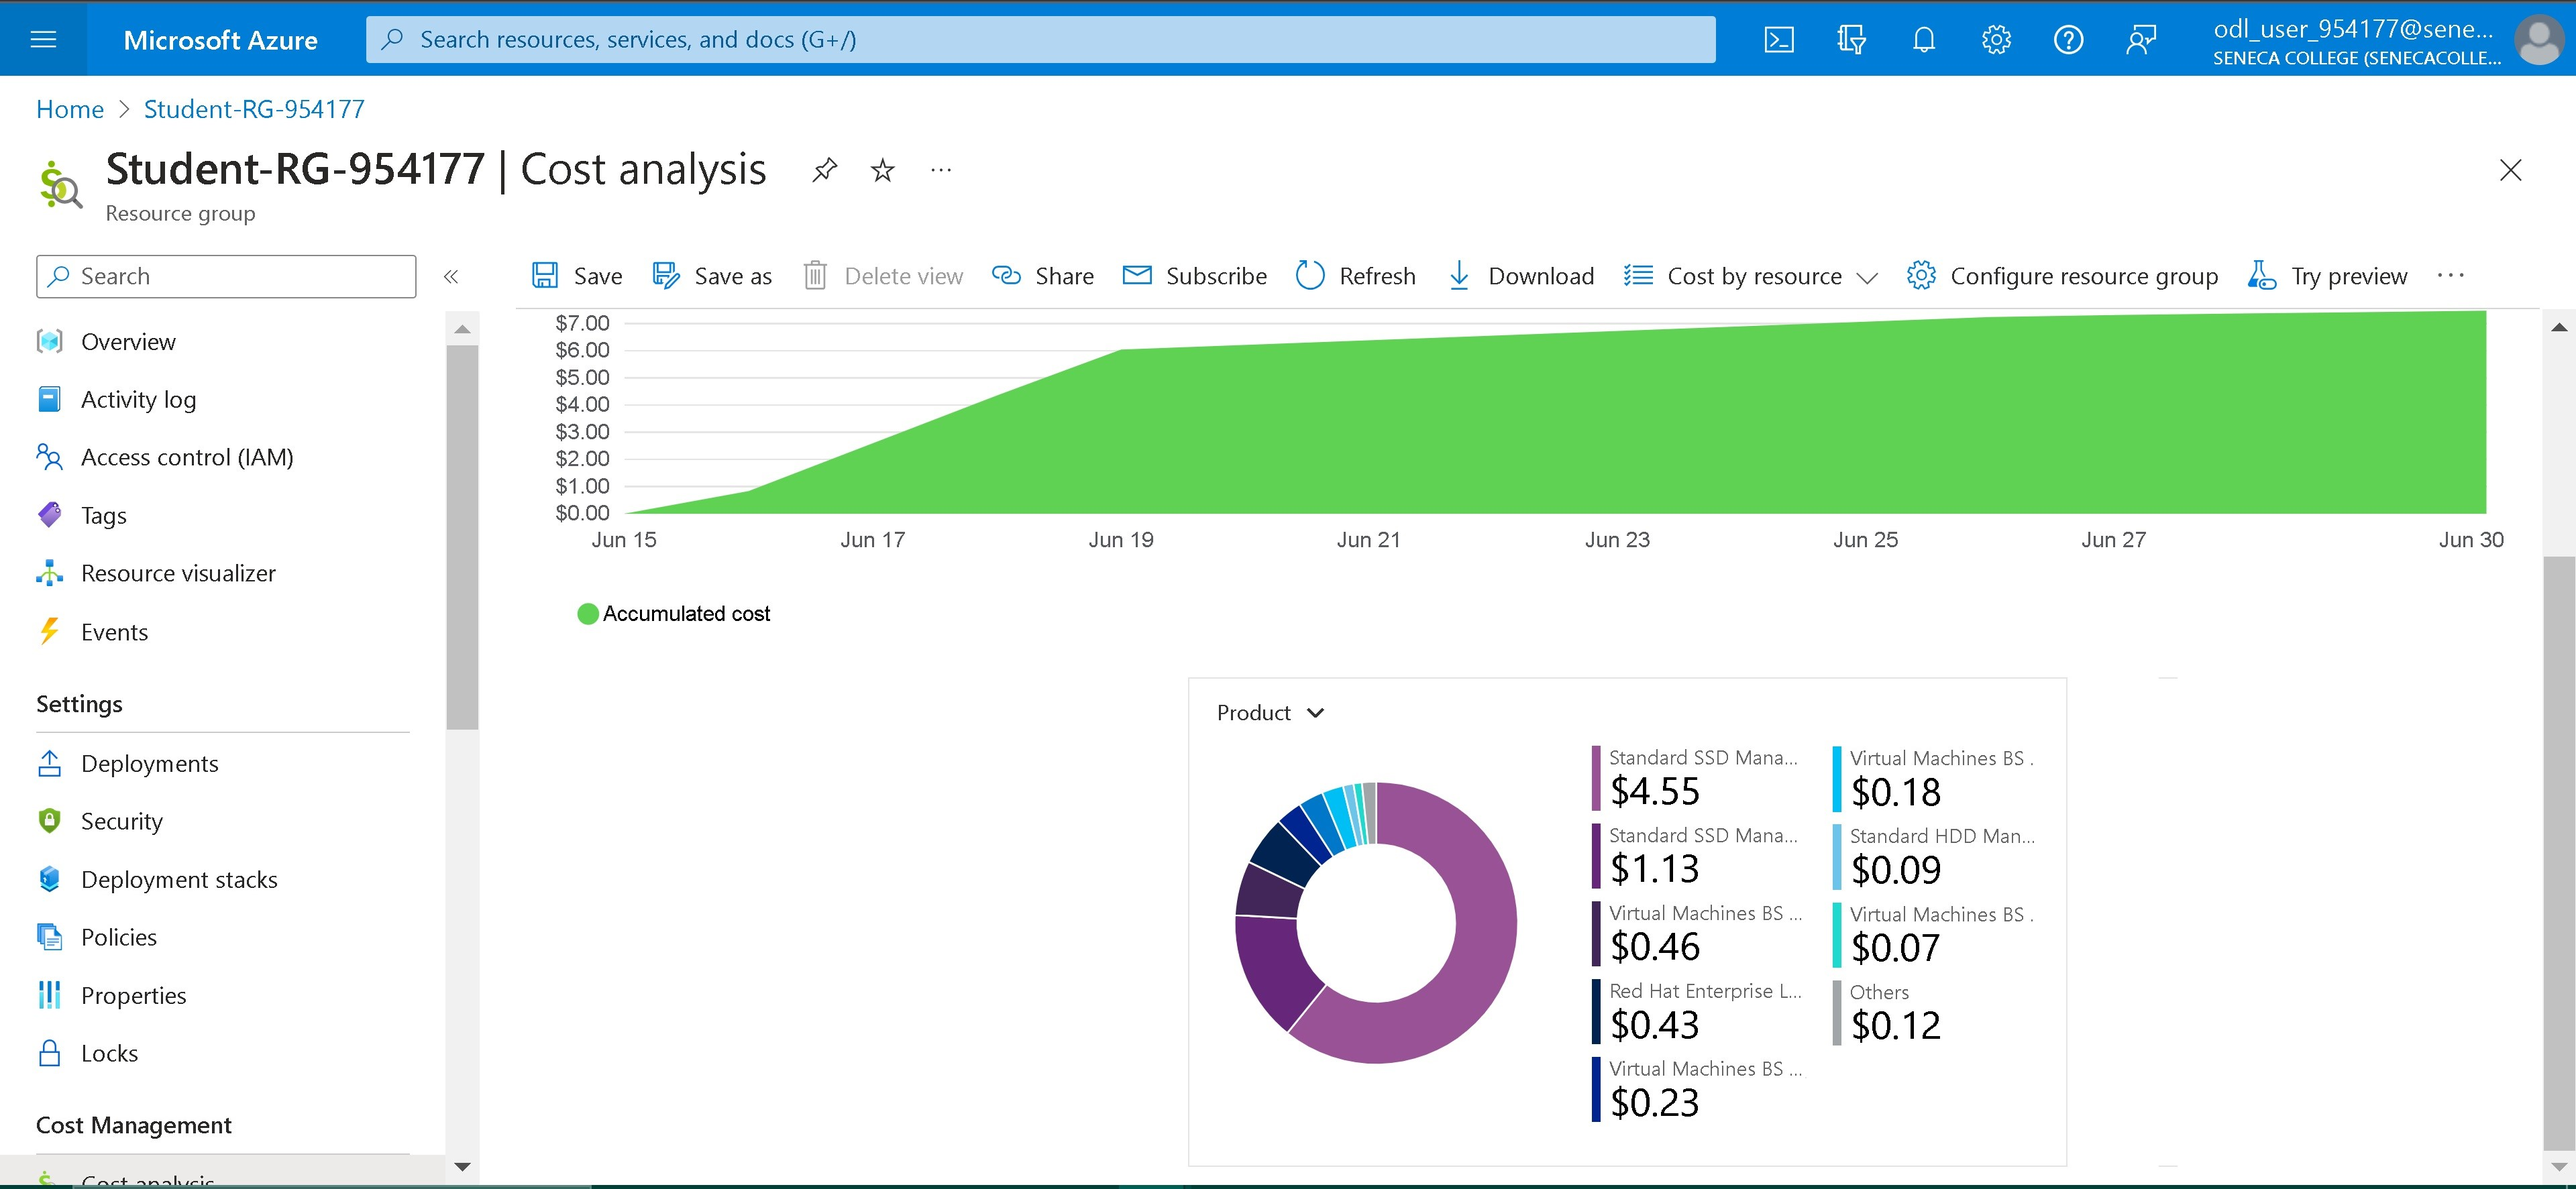
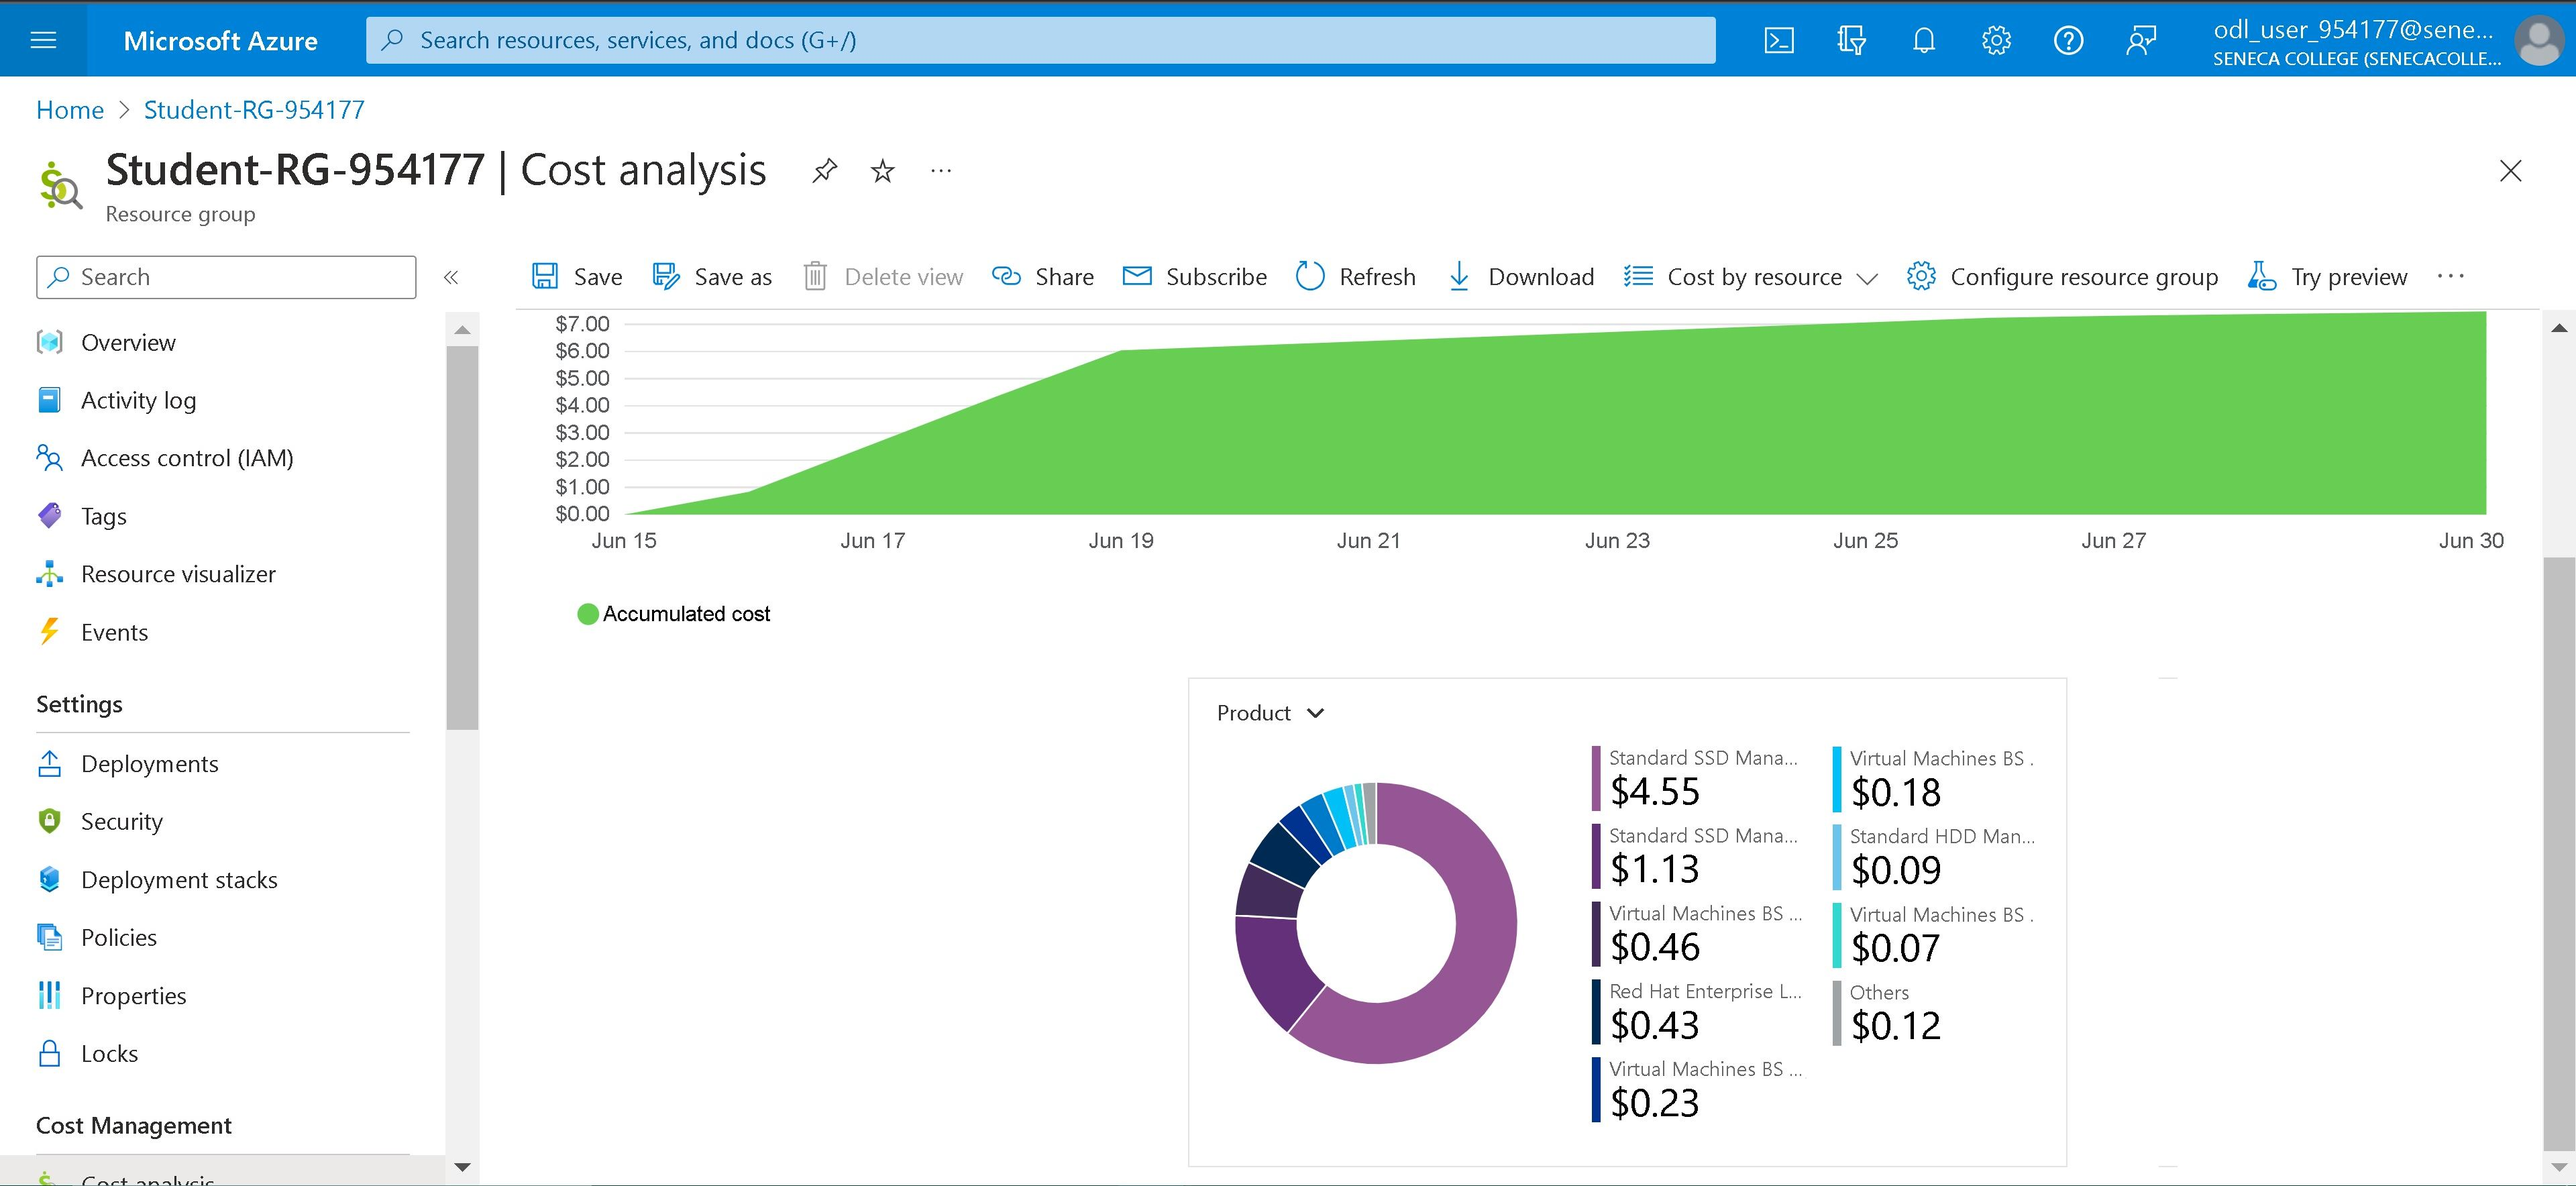
Updated Product&ServiceaName screenshot

diff --git a/Checkpoint9/README.md b/Checkpoint9/README.md
@@ -8,12 +8,10 @@
 
 ### Table of Contents
 
-- [Checkpoint9 Submission](#checkpoint9-submission)
-    - [Table of Contents](#table-of-contents)
-    - [Part A - Logging and Analyzing DNS and HTTP Traffic](#part-a---logging-and-analyzing-dns-and-http-traffic)
-    - [Part B - Logging and Analyzing FTP and MySQL Traffic](#part-b---logging-and-analyzing-ftp-and-mysql-traffic)
-    - [Part C - Adjusting firewalls to DROP and LOG Traffic](#part-c---adjusting-firewalls-to-drop-and-log-traffic)
-    - [Part D - Azure Cost Analysis Charts](#part-d---azure-cost-analysis-charts)
+1. [Part A - Logging and Analyzing DNS and HTTP Traffic](#Part-A---Logging-and-Analyzing-DNS-and-HTTP-Traffic)
+2. [Part B - Logging and Analyzing FTP and MySQL Traffic](#Part-B---Logging-and-Analyzing-FTP-and-MySQL-Traffic)
+3. [Part C - Adjusting firewalls to DROP and LOG Traffic](#Part-C---Adjusting-firewalls-to-DROP-and-LOG-Traffic)
+4. [Part D - Azure Cost Analysis Charts](#Part-D---Azure-Cost-Analysis-Charts)
 
 ### Part A - Logging and Analyzing DNS and HTTP Traffic
 
@@ -88,7 +86,7 @@ iptables -A FORWARD -p tcp -d 172.17.18.37 --dport 22 -j DROP
 
 6. [./Images/Product.JPG](./Images/Product.JPG)
 
-![Product](https://github.com/108170218-myseneca/CSN400-Capstone/blob/main/Checkpoint9/Images/Product.JPG)
+![Last Month Product](https://github.com/108170218-myseneca/CSN400-Capstone/blob/main/Checkpoint9/Images/Product.JPG)
 
 7. [./Images/Dashboard.JPG](./Images/Dashboard.JPG)
 
